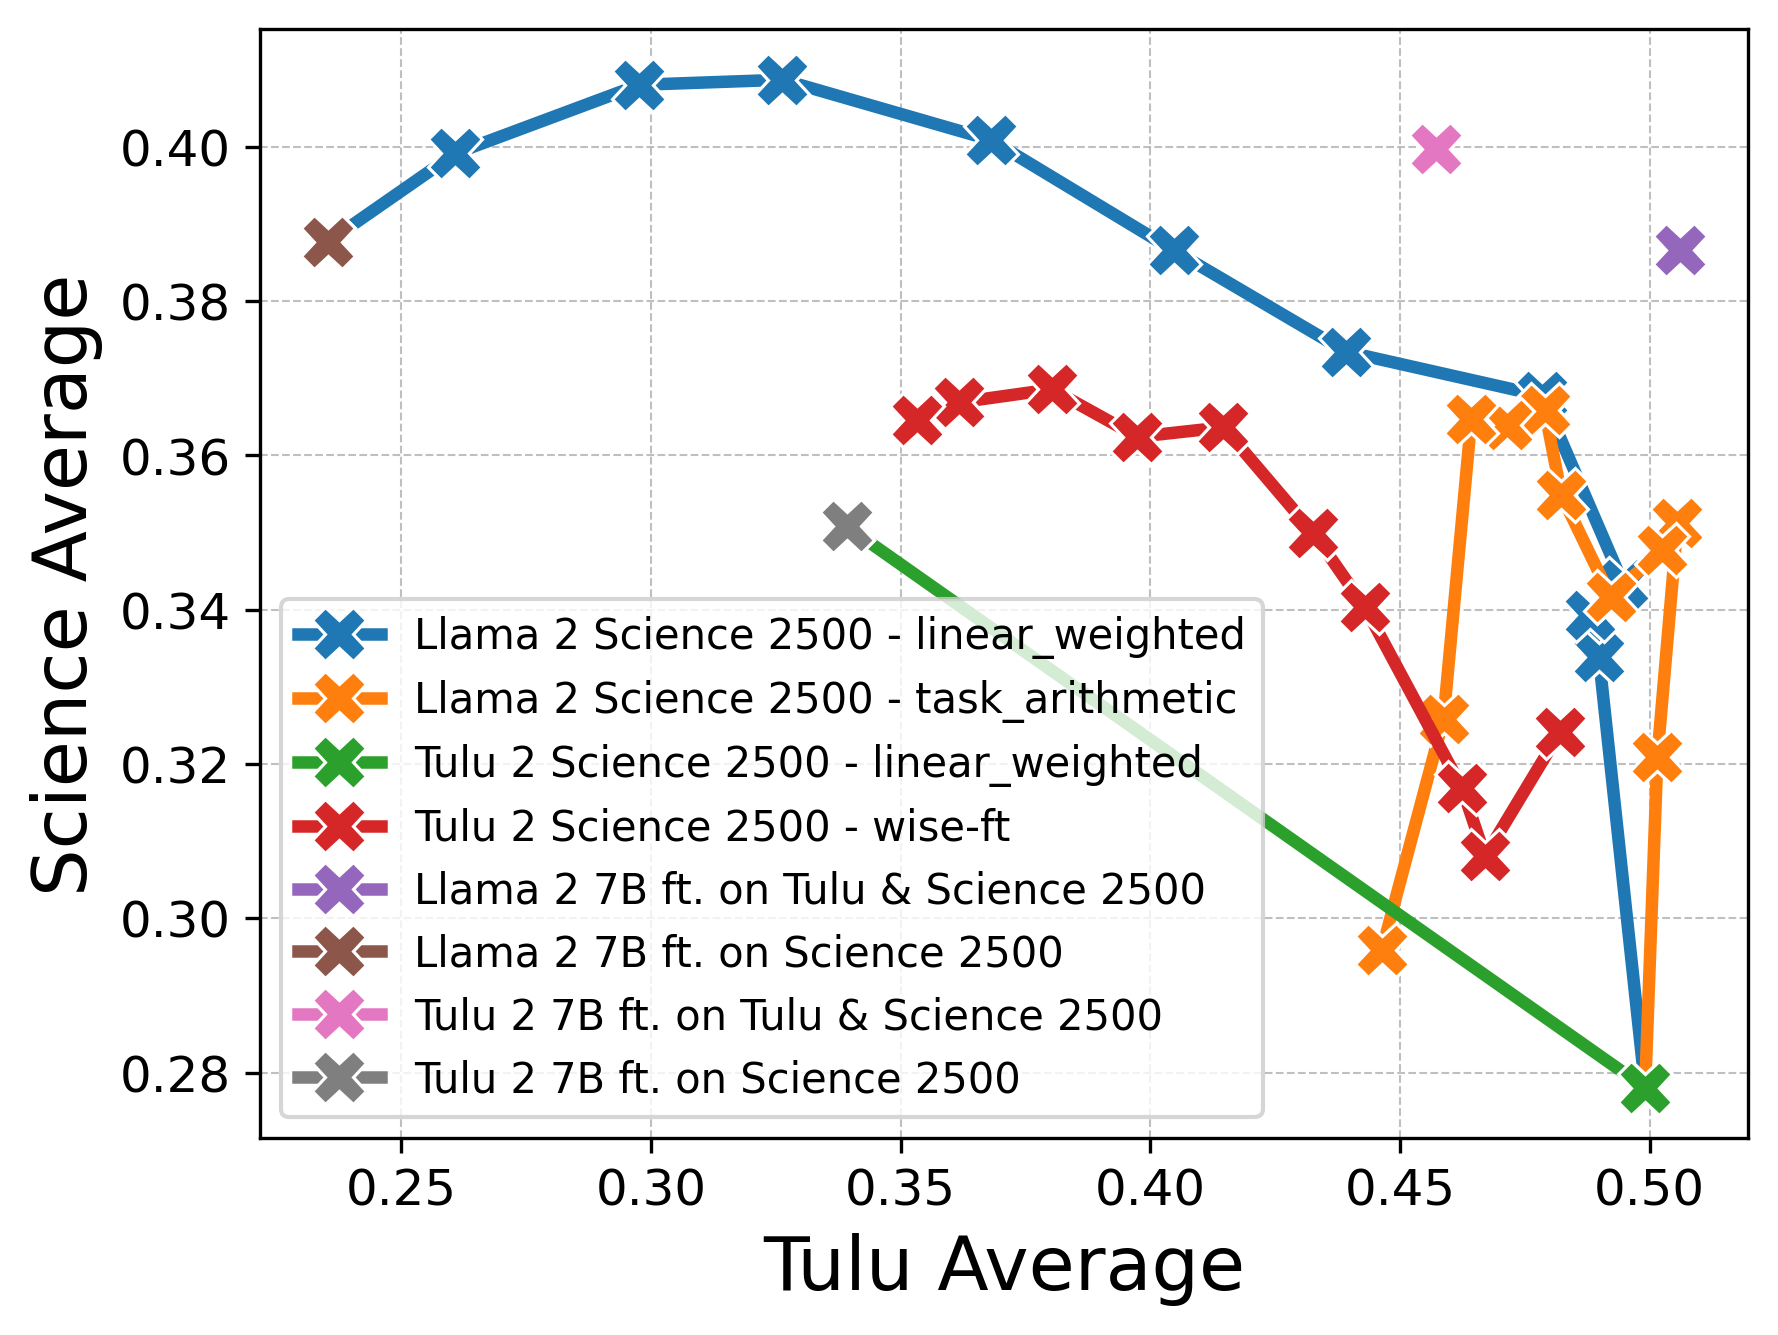
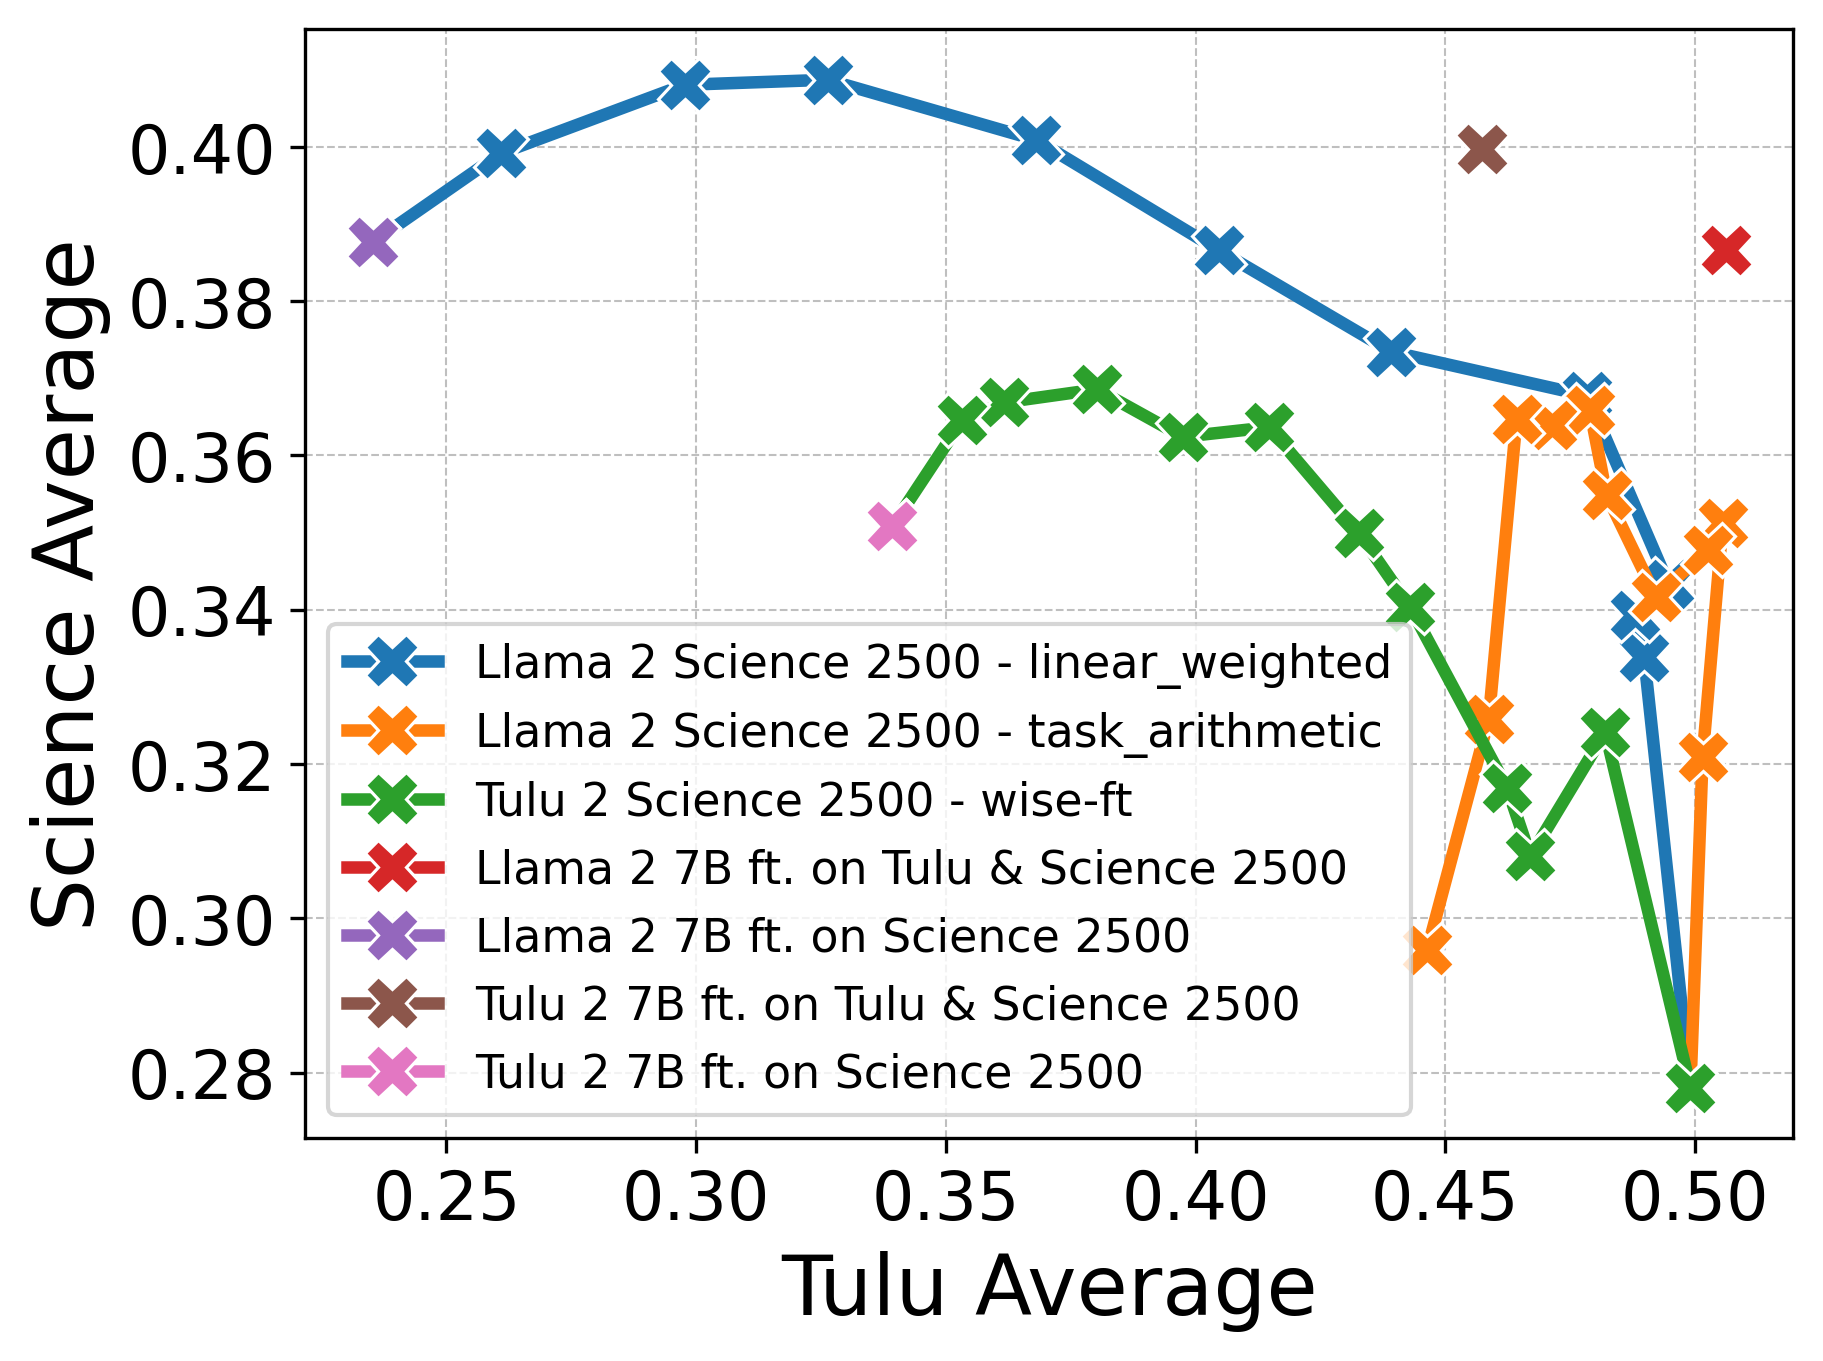
.

diff --git a/scripts/merge_models/merge-and-upload-4k.py b/scripts/merge_models/merge-and-upload-4k.py
@@ -38,18 +38,18 @@ import yaml
 
 # beaker session create --gpus 1 --budget ai2/oe-adapt  \
 #     --mount beaker://jacobm/llama_2_7b-tulu_all=/llama_2_7b-tulu_all \
-#     --mount beaker://jacobm/llama_2_7b-tulu_none-coding_20=/llama_2_7b-tulu_none-coding_20 \
-#     --mount beaker://jacobm/llama_2_7b-tulu_none-coding_40=/llama_2_7b-tulu_none-coding_40 \
-#     --mount beaker://jacobm/llama_2_7b-tulu_none-coding_60=/llama_2_7b-tulu_none-coding_60 \
-#     --mount beaker://jacobm/llama_2_7b-tulu_none-coding_80=/llama_2_7b-tulu_none-coding_80 \
+    # --mount beaker://jacobm/llama_2_7b-tulu_none-coding_20=/llama_2_7b-tulu_none-coding_20 \
+    # --mount beaker://jacobm/llama_2_7b-tulu_none-coding_40=/llama_2_7b-tulu_none-coding_40 \
+    # --mount beaker://jacobm/llama_2_7b-tulu_none-coding_60=/llama_2_7b-tulu_none-coding_60 \
+    # --mount beaker://jacobm/llama_2_7b-tulu_none-coding_80=/llama_2_7b-tulu_none-coding_80 \
 #     --mount beaker://jacobm/llama_2_7b-tulu_none-safety_20=/llama_2_7b-tulu_none-safety_20 \
 #     --mount beaker://jacobm/llama_2_7b-tulu_none-safety_40=/llama_2_7b-tulu_none-safety_40 \
 #     --mount beaker://jacobm/llama_2_7b-tulu_none-safety_60=/llama_2_7b-tulu_none-safety_60 \
 #     --mount beaker://jacobm/llama_2_7b-tulu_none-safety_80=/llama_2_7b-tulu_none-safety_80 \
-#     --mount beaker://jacobm/llama_2_7b-tulu_none-science_100=/llama_2_7b-tulu_none-science_100 \
-#     --mount beaker://jacobm/llama_2_7b-tulu_none-science_200=/llama_2_7b-tulu_none-science_200 \
-#     --mount beaker://jacobm/llama_2_7b-tulu_none-science_500=/llama_2_7b-tulu_none-science_500 \
-#     --mount beaker://jacobm/llama_2_7b-tulu_none-science_1000=/llama_2_7b-tulu_none-science_1000 \
+    # --mount beaker://jacobm/llama_2_7b-tulu_none-science_100=/llama_2_7b-tulu_none-science_100 \
+    # --mount beaker://jacobm/llama_2_7b-tulu_none-science_200=/llama_2_7b-tulu_none-science_200 \
+    # --mount beaker://jacobm/llama_2_7b-tulu_none-science_500=/llama_2_7b-tulu_none-science_500 \
+    # --mount beaker://jacobm/llama_2_7b-tulu_none-science_1000=/llama_2_7b-tulu_none-science_1000 \
 
 # beaker session create --gpus 1 --budget ai2/oe-adapt  \
 #     --mount beaker://jacobm/llama_2_7b-tulu_all=/llama_2_7b-tulu_all \
@@ -113,16 +113,35 @@ import yaml
 #     --mount beaker://jacobm/llama_2_7b-tulu_all_with_coding=/llama_2_7b-tulu_all_with_coding \
 #     --mount beaker://jacobm/llama_2_7b-tulu_none-coding_100=/llama_2_7b-tulu_none-coding_100
 
+# beaker session create --gpus 1 --budget ai2/oe-adapt  \
+#     --mount beaker://jacobm/llama_2_7b-tulu_all=/llama_2_7b-tulu_all \
+#     --mount beaker://jacobm/llama_2_7b-tulu_none-safety_20=/llama_2_7b-tulu_none-safety_20 \
+#     --mount beaker://jacobm/llama_2_7b-tulu_none-safety_40=/llama_2_7b-tulu_none-safety_40 \
+#     --mount beaker://jacobm/llama_2_7b-tulu_none-safety_60=/llama_2_7b-tulu_none-safety_60 \
+#     --mount beaker://jacobm/llama_2_7b-tulu_none-safety_80=/llama_2_7b-tulu_none-safety_80 \
+#     --mount beaker://jacobm/llama_2_7b-tulu_none-safety_100=/llama_2_7b-tulu_none-safety_100 \
+#     --mount beaker://jacobm/llama_2_7b-tulu_none-coding_20=/llama_2_7b-tulu_none-coding_20 \
+#     --mount beaker://jacobm/llama_2_7b-tulu_none-coding_40=/llama_2_7b-tulu_none-coding_40 \
+#     --mount beaker://jacobm/llama_2_7b-tulu_none-coding_60=/llama_2_7b-tulu_none-coding_60 \
+#     --mount beaker://jacobm/llama_2_7b-tulu_none-coding_80=/llama_2_7b-tulu_none-coding_80 \
+#     --mount beaker://jacobm/llama_2_7b-tulu_none-coding_100=/llama_2_7b-tulu_none-coding_100 \
+#     --mount beaker://jacobm/llama_2_7b-tulu_none-science_100=/llama_2_7b-tulu_none-science_100 \
+#     --mount beaker://jacobm/llama_2_7b-tulu_none-science_200=/llama_2_7b-tulu_none-science_200 \
+#     --mount beaker://jacobm/llama_2_7b-tulu_none-science_500=/llama_2_7b-tulu_none-science_500 \
+#     --mount beaker://jacobm/llama_2_7b-tulu_none-science_1000=/llama_2_7b-tulu_none-science_1000 \
+#     --mount beaker://jacobm/llama_2_7b-tulu_none-science_2500=/llama_2_7b-tulu_none-science_2500
+
 weights = [
-    (0.1, 0.9),
-    (0.2, 0.8),
-    (0.3, 0.7),
-    (0.4, 0.6),
-    (0.5, 0.5),
-    (0.6, 0.4),
-    (0.7, 0.3),
-    (0.8, 0.2),
-    (0.9, 0.1),
+    # (0.1, 0.9),
+    # (0.2, 0.8),
+    # (0.3, 0.7),
+    # (0.4, 0.6),
+    # (0.5, 0.5),
+    # (0.6, 0.4),
+    # (0.7, 0.3),
+    # (0.8, 0.2),
+    # (0.9, 0.1),
+    (1.0, 1.0),
 ]
 
 data_weighted_coefficients = {
@@ -268,26 +287,27 @@ data_weighted_coefficients = {
 domain_models = {
     # "safety_100": "/llama_2_7b-tulu_none-safety_100",
     # "coding_100": "/llama_2_7b-tulu_none-coding_100",
-    # "science_2500": "/llama_2_7b-tulu_none-science_2500",
 
     # "safety_100": "/tulu_2_7b-tulu_none-safety_100",
     # "coding_100": "/tulu_2_7b-tulu_none-coding_100",
     # "science_2500": "/tulu_2_7b-tulu_none-science_2500",
 
-    # "science_100": "/llama_2_7b-tulu_none-science_100",
-    # "science_200": "/llama_2_7b-tulu_none-science_200",
-    # "science_500": "/llama_2_7b-tulu_none-science_500",
-    # "science_1000": "/llama_2_7b-tulu_none-science_1000",
+    "science_100": "/llama_2_7b-tulu_none-science_100",
+    "science_200": "/llama_2_7b-tulu_none-science_200",
+    "science_500": "/llama_2_7b-tulu_none-science_500",
+    "science_1000": "/llama_2_7b-tulu_none-science_1000",
+    "science_2500": "/llama_2_7b-tulu_none-science_2500",
 
-    # "safety_20": "/llama_2_7b-tulu_none-safety_20",
-    # "safety_40": "/llama_2_7b-tulu_none-safety_40",
-    # "safety_60": "/llama_2_7b-tulu_none-safety_60",
-    # "safety_80": "/llama_2_7b-tulu_none-safety_80",
+    "safety_20": "/llama_2_7b-tulu_none-safety_20",
+    "safety_40": "/llama_2_7b-tulu_none-safety_40",
+    "safety_60": "/llama_2_7b-tulu_none-safety_60",
+    "safety_80": "/llama_2_7b-tulu_none-safety_80",
+    "safety_100": "/llama_2_7b-tulu_none-safety_100",
 
-    # "coding_20": "/llama_2_7b-tulu_none-coding_20",
-    # "coding_40": "/llama_2_7b-tulu_none-coding_40",
-    # "coding_60": "/llama_2_7b-tulu_none-coding_60",
-    # "coding_80": "/llama_2_7b-tulu_none-coding_80",
+    "coding_20": "/llama_2_7b-tulu_none-coding_20",
+    "coding_40": "/llama_2_7b-tulu_none-coding_40",
+    "coding_60": "/llama_2_7b-tulu_none-coding_60",
+    "coding_80": "/llama_2_7b-tulu_none-coding_80",
     "coding_100": "/llama_2_7b-tulu_none-coding_100",
 
     # "science_100": "/tulu_2_7b-tulu_none-science_100",
@@ -313,7 +333,7 @@ domain_models = {
 }
 
 merge_methods = [
-    "linear_weighted",
+    # "linear_weighted",
     "task_arithmetic",
     # "dare_task_arithmetic",
     # "dare_linear",
@@ -322,18 +342,18 @@ merge_methods = [
     # "slerp",
 ]
 
-# tulu_file = "/llama_2_7b-tulu_all"
-tulu_file = "/llama_2_7b-tulu_all_with_coding"
+tulu_file = "/llama_2_7b-tulu_all"
+# tulu_file = "/llama_2_7b-tulu_all_with_coding"
 
 def print_and_run(cmd):
     print(cmd)
     subprocess.run(cmd, shell=True)
 
-# for model_tag in domain_models:
-#     for merge_method in merge_methods:
-#         for (tuluWeight, domainWeight) in weights:
-for base_model, domain_model, merge_method in data_weighted_coefficients:
-        for (tuluWeight, domainWeight) in data_weighted_coefficients[(base_model, domain_model, merge_method)]:
+for model_tag in domain_models:
+    for merge_method in merge_methods:
+        for (tuluWeight, domainWeight) in weights:
+# for base_model, domain_model, merge_method in data_weighted_coefficients:
+        # for (tuluWeight, domainWeight) in data_weighted_coefficients[(base_model, domain_model, merge_method)]:
             # Copy yaml
             base_yaml = f"scripts/merge_models/merge-{merge_method}-base.yml"
             with open(base_yaml, 'r') as f:
@@ -345,21 +365,21 @@ for base_model, domain_model, merge_method in data_weighted_coefficients:
                 # Set merge-specific parameters
                 d["models"][0]["model"] = tulu_file
                 d["models"][0]["parameters"]["weight"] = tuluWeight
-                # d["models"][1]["model"] = domain_models[model_tag]
-                d["models"][1]["model"] = domain_model
+                d["models"][1]["model"] = domain_models[model_tag]
+                # d["models"][1]["model"] = domain_model
                 d["models"][1]["parameters"]["weight"] = domainWeight
             elif merge_method in ["dare_linear", "dare_ties", "ties", "dare_task_arithmetic"]:
                 # Set merge-specific parameters
                 d["models"][1]["model"] = tulu_file
                 d["models"][1]["parameters"]["weight"] = tuluWeight
-                # d["models"][2]["model"] = domain_models[model_tag]
-                d["models"][2]["model"] = domain_model
+                d["models"][2]["model"] = domain_models[model_tag]
+                # d["models"][2]["model"] = domain_model
                 d["models"][2]["parameters"]["weight"] = domainWeight
             elif merge_method == "slerp":
                 # Set merge-specific parameters
                 d["slices"][0]["sources"][0]["model"] = tulu_file
-                # d["slices"][0]["sources"][1]["model"] = domain_models[model_tag]
-                d["slices"][0]["sources"][1]["model"] = domain_model
+                d["slices"][0]["sources"][1]["model"] = domain_models[model_tag]
+                # d["slices"][0]["sources"][1]["model"] = domain_model
                 d["parameters"]["t"][0]["value"] = domainWeight
             else:
                 raise Exception
@@ -374,8 +394,8 @@ for base_model, domain_model, merge_method in data_weighted_coefficients:
             print_and_run(f"mergekit-yaml tmp-4k/merge-config.yaml tmp-4k/ --cuda")
 
             # Upload model
-            # model_name = f"{merge_method}-{tulu_file[1:]}_{tuluWeight}-{domain_models[model_tag][1:]}_{domainWeight}"
-            model_name = f"{merge_method}-{base_model[1:]}_{tuluWeight}-{domain_model[1:]}_{domainWeight}"
+            model_name = f"{merge_method}-{tulu_file[1:]}_{tuluWeight}-{domain_models[model_tag][1:]}_{domainWeight}"
+            # model_name = f"{merge_method}-{base_model[1:]}_{tuluWeight}-{domain_model[1:]}_{domainWeight}"
             print_and_run(f"beaker dataset create tmp-4k/ --name {model_name} --workspace ai2/modular_adaptation")
 
             # Cleanup

diff --git a/results/consistent_mix/graph-results.py b/results/consistent_mix/graph-results.py
@@ -13,34 +13,30 @@ def create_model_combo(row):
         "llama_2_7b": "Llama 2 7B",
         "tulu_none": "Tulu None",
         "tulu_match": "Tulu Match",
-        # "tulu_all": "Tulu All",
-        "coding_none": "Coding None",
-        # "coding_50": "Coding 50%",
+
         "coding_20": "Coding 20%",
         "coding_40": "Coding 40%",
         "coding_60": "Coding 60%",
         "coding_80": "Coding 80%",
         "coding_100": "Coding 100%",
+
         "safety_20": "Safety 20%",
         "safety_40": "Safety 40%",
         "safety_60": "Safety 60%",
         "safety_80": "Safety 80%",
         "safety_100": "Safety 100%",
+
         "science_100": "Science 100",
         "science_200": "Science 200",
         "science_500": "Science 500",
         "science_1000": "Science 1000",
         "science_2500": "Science 2500",
+
         "tulu_all": "Tulu",
-        "tulu_all_with_coding": "Tulu w/ Coding",
         "tulu_2_7b": "Tulu 2 7B",
+
+        "tulu_all_with_coding": "Tulu w/ Coding",
         "tulu_2_7b_with_coding": "Tulu 2 7B w/ Coding",
-        # "tulu_2_7b_no_science_no_safety_no_coding": "Tulu 2 7B Consistent Mix",
-        # "tulu_2_7b_with_coding": "Tulu 2 7B Consistent Mix w/ Coding",
-        # "tulu_2_7b_no_science_no_safety": "Tulu 2 7B Consistent Mix w/ Coding",
-        # "tulu_match_no_science_no_safety_no_coding": "Tulu Match"
-        # "tulu_v2_mix": "Full Tulu Mix",
-        # "tulu_2_code_none": "Tulu 2 7B w/o Code Alpaca",
     }
 
     tokens = row["model_key"].split("-")
@@ -53,12 +49,14 @@ def create_model_combo(row):
         tokens = tokens[:3]
         domain_model_weight = float(tokens[2].split("_")[-1])
         tokens[2] = tokens[2].replace(f"_{domain_model_weight}", "")
+        if row["merge_method"] == "task_arithmetic" and domain_model_weight == 1.0:
+            print(row["model_key"])
     base_model = model_dict[tokens[0]]
     tulu_model = model_dict[tokens[1]]
     if len(tokens) == 2:
         domain_model = "None"
     else:
-        print(tokens[2])
+        # print(tokens[2])
         domain_model = ""
         for token in tokens[2].split("-"):
             domain_model += " " + model_dict[token]
@@ -251,59 +249,69 @@ def plot_all_curves():
 
     plt.show()
 
-def plot_science_curves():
-    df = get_df()
-    df["Order"] = df["domain_model_weight"]
-    df.sort_values(by='Combo', inplace=True)
-    df.sort_values(by='Order', inplace=True)
-    df = df[
-        ~df["Combo"].str.contains("Safety 100") &
-        ~df["Combo"].str.contains("Coding 100") &
-        (
-            # df["Combo"].str.contains("Science 100") |
-            # df["Combo"].str.contains("Science 200") |
-            # df["Combo"].str.contains("Science 500") |
-            # df["Combo"].str.contains("Science 1000") |
-            df["Combo"].str.contains("Science 2500")
-        )
+def plot_individual_science_curves():
+    science_amounts = [
+        "100",
+        "200",
+        "500",
+        "1000",
+        "2500",
     ]
+    for amount in science_amounts:
+        df = get_df()
+        df["Order"] = df["domain_model_weight"]
+        df.sort_values(by='Combo', inplace=True)
+        df.sort_values(by='Order', inplace=True)
+        df = df[
+            ~df["Combo"].str.contains("Safety 100") &
+            ~df["Combo"].str.contains("Coding 100") &
+            (
+                # df["Combo"].str.contains("Science 100") |
+                # df["Combo"].str.contains("Science 200") |
+                # df["Combo"].str.contains("Science 500") |
+                # df["Combo"].str.contains("Science 1000") |
+                df["Combo"].str.contains(f"Science {amount}")
+            )
+        ]
+        if amount == "100":
+            df = df[~df["Combo"].str.contains("Science 1000")]
 
-    sns.lineplot(data=df, x="Tulu Average", y="Science Average", hue="Combo", sort=False, marker='X', linewidth=3, markersize=13)
-    plt.xlabel("Tulu Average",fontsize=18)
-    plt.ylabel("Science Average",fontsize=18)
-    plt.xticks(fontsize=12)
-    plt.yticks(fontsize=12)
+        sns.lineplot(data=df, x="Tulu Average", y="Science Average", hue="Combo", sort=False, marker='X', linewidth=3, markersize=13)
+        plt.legend()
+        plt.xlabel("Tulu Average",fontsize=20)
+        plt.ylabel("Science Average",fontsize=20)
+        plt.xticks(fontsize=16)
+        plt.yticks(fontsize=16)
+        plt.legend(fontsize=11)
 
-    # sns.lineplot(data=df, x="Tulu Average", y="Test Science Average", hue="Combo", sort=False, marker='o', markersize=6)
-    # sns.lineplot(data=df, x="Tulu Average", y="Coding Average", hue="Combo", sort=False, marker='^', markersize=6)
-    # sns.scatterplot(data=df, x="Tulu Average", y="Coding Average", hue="Combo", s=100)
-    # sns.scatterplot(data=df, x="Tulu Average", y="Coding Average", hue="Combo", s=300, marker="*")
-    plt.legend()
-    plt.grid(True, linestyle='--', linewidth=0.5, color='gray', alpha=0.5)
-    # plt.show()
-    plt.savefig('results/consistent_mix/plots/science_2500.png', dpi=300, bbox_inches='tight')
+        plt.grid(True, linestyle='--', linewidth=0.5, color='gray', alpha=0.5)
+        plt.savefig(f'results/consistent_mix/plots/science_{amount}.png', dpi=300, bbox_inches='tight')
+        plt.clf()
 
-def plot_coding_curves():
-    df = get_df()
-    df["Order"] = df["domain_model_weight"]
-    df.sort_values(by='Combo', inplace=True)
-    df.sort_values(by='Order', inplace=True)
-    df = df[
-        ~df["Combo"].str.contains("Science 2500") &
-        ~df["Combo"].str.contains("Safety 100") &
-        ~df["Combo"].str.contains("w/ Coding") &
-        df["Combo"].str.contains("Coding 100")
-    ]
+def plot_individual_coding_curves():
+        amount = "100"
+        df = get_df()
+        df["Order"] = df["domain_model_weight"]
+        df.sort_values(by='Combo', inplace=True)
+        df.sort_values(by='Order', inplace=True)
+        df = df[
+            ~df["Combo"].str.contains("Science 2500") &
+            ~df["Combo"].str.contains("Safety 100") &
+            ~df["Combo"].str.contains("w/ Coding") &
+            df["Combo"].str.contains("Coding 100")
+        ]
 
-    sns.lineplot(data=df, x="Tulu Average", y="Coding Average", hue="Combo", sort=False, marker='X', linewidth=3, markersize=13)
-    plt.xlabel("Tulu Average",fontsize=18)
-    plt.ylabel("Coding Average",fontsize=18)
-    # sns.lineplot(data=df, x="Tulu Average", y="Coding Average", hue="Combo", sort=False, marker='^', markersize=6)
-    # sns.scatterplot(data=df, x="Tulu Average", y="Coding Average", hue="Combo", s=100)
-    # sns.scatterplot(data=df, x="Tulu Average", y="Coding Average", hue="Combo", s=300, marker="*")
-    plt.legend()
-    plt.grid(True, linestyle='--', linewidth=0.5, color='gray', alpha=0.5)
-    plt.show()
+        sns.lineplot(data=df, x="Tulu Average", y="Coding Average", hue="Combo", sort=False, marker='X', linewidth=3, markersize=13)
+        plt.legend()
+        plt.xlabel("Tulu Average",fontsize=20)
+        plt.ylabel("Coding Average",fontsize=20)
+        plt.xticks(fontsize=16)
+        plt.yticks(fontsize=16)
+        plt.legend(fontsize=11)
+
+        plt.grid(True, linestyle='--', linewidth=0.5, color='gray', alpha=0.5)
+        plt.savefig(f'results/consistent_mix/plots/coding_{amount}.png', dpi=300, bbox_inches='tight')
+        plt.clf()
 
 def plot_safety_curves():
     df = get_df()
@@ -322,7 +330,7 @@ def plot_safety_curves():
     ]
 
     pd.set_option('display.max_colwidth', None)
-    print(df["model_key"])
+    # print(df["model_key"])
     # sns.lineplot(data=df, x="Tulu Average", y="Safety Average", hue="Combo", sort=False, marker='o', linewidth=3, markersize=13)
     # plt.xlabel("Tulu Average",fontsize=18)
     # plt.ylabel("Safety Average",fontsize=18)
@@ -339,6 +347,6 @@ def plot_safety_curves():
     plt.grid(True, linestyle='--', linewidth=0.5, color='gray', alpha=0.5)
     plt.show()
 
-plot_science_curves()
-# plot_coding_curves()
+# plot_individual_science_curves()
+plot_individual_coding_curves()
 # plot_safety_curves()
